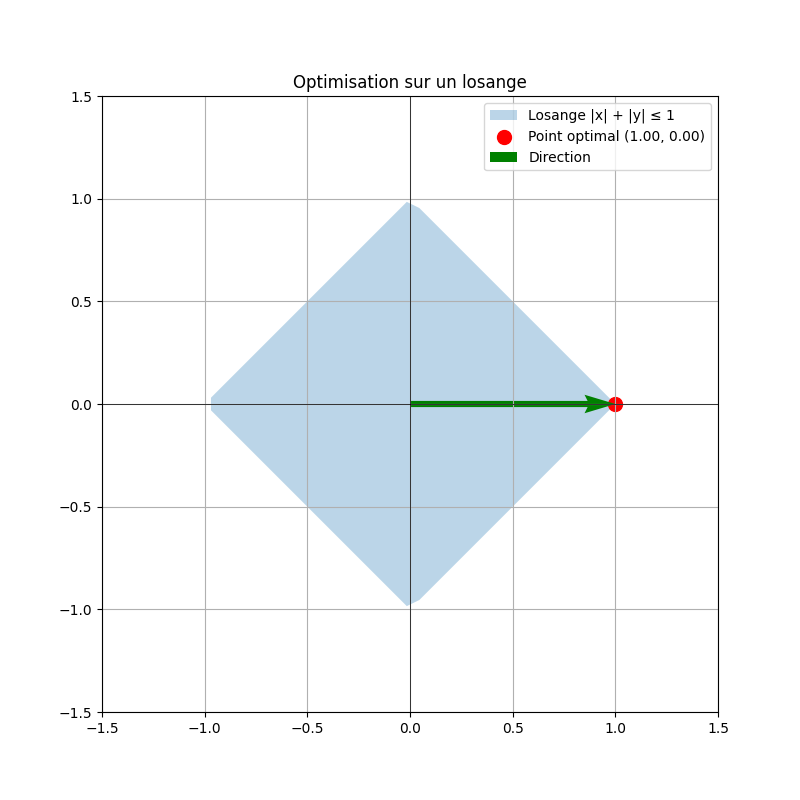
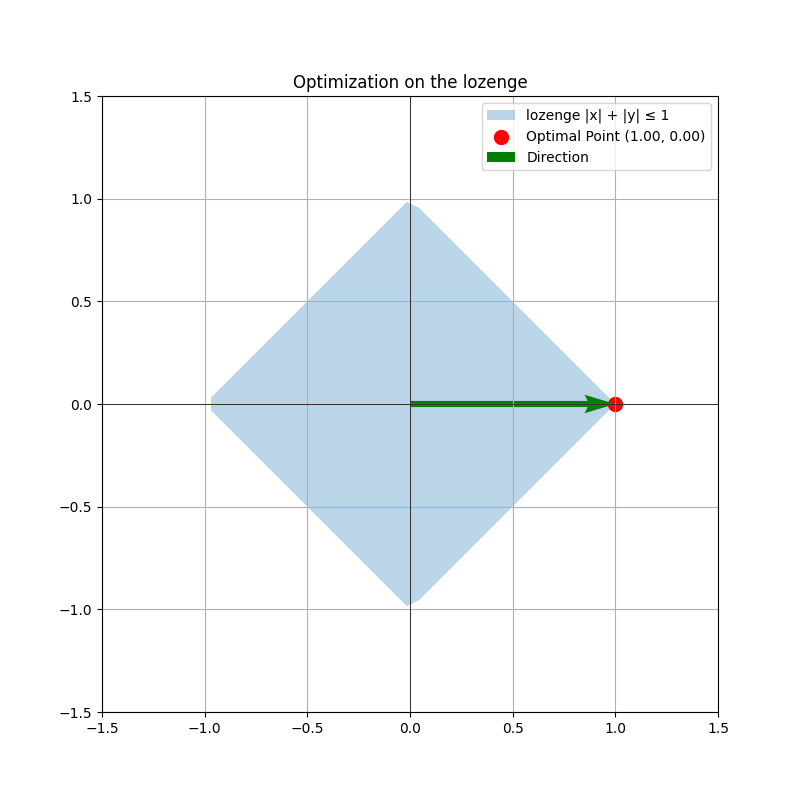
aco hw

Changed region(s): [[0.5, 0.0938, 0.875, 0.2188]]

diff --git a/m4.py b/m4.py
@@ -1,0 +1,116 @@
+import numpy as np
+import matplotlib.pyplot as plt
+from matplotlib.animation import FuncAnimation
+
+GRID_RES = 100
+X_RANGE = (-3, 3)
+Y_RANGE = (-3, 3)
+
+class ConstraintSets:
+    @staticmethod
+    def pentagon(center, size, rotation=0): 
+        angles = np.linspace(0, 2*np.pi, 5, endpoint=False) + rotation
+        return np.array([
+            center[0] + size*np.cos(angles),
+            center[1] + size*np.sin(angles)
+        ])
+
+    @staticmethod
+    def rotating_square(center, size, angle): 
+        return np.array([
+            center[0] + size*np.array([np.cos(angle), -np.sin(angle), -np.cos(angle), np.sin(angle)]),
+            center[1] + size*np.array([np.sin(angle), np.cos(angle), -np.sin(angle), -np.cos(angle)])
+        ])
+
+    @staticmethod
+    def circle(center, radius): 
+        theta = np.linspace(0, 2*np.pi, 100)
+        return np.array([
+            center[0] + radius*np.cos(theta),
+            center[1] + radius*np.sin(theta)
+        ])
+ 
+def linear_cost(x, direction):
+    return np.dot(x, direction)
+
+def quadratic_cost(x, target):
+    return np.linalg.norm(x - target)**2
+ 
+class OptimizationScenario:
+    def __init__(self): 
+        self.x = np.linspace(*X_RANGE, GRID_RES)
+        self.y = np.linspace(*Y_RANGE, GRID_RES)
+        self.X, self.Y = np.meshgrid(self.x, self.y)
+         
+        self.timesteps = 50
+        self.current_step = 0
+         
+        self.constraint_centers = np.array([
+            [0.5*np.cos(2*np.pi*t/self.timesteps), 
+             0.5*np.sin(2*np.pi*t/self.timesteps)] 
+            for t in range(self.timesteps)
+        ])
+         
+        self.target_positions = np.array([
+            [2*np.cos(2*np.pi*t/self.timesteps), 
+             2*np.sin(2*np.pi*t/self.timesteps)] 
+            for t in range(self.timesteps)
+        ])
+
+    def get_constraints(self, t): 
+        return ConstraintSets.pentagon(
+            center=self.constraint_centers[t],
+            size=0.8,
+            rotation=0.1*t
+        )
+
+    def is_feasible(self, x, y, vertices): 
+        from matplotlib.path import Path
+        return Path(vertices.T).contains_point((x, y))
+
+    def find_optimal(self, t): 
+        vertices = self.get_constraints(t)
+        target = self.target_positions[t]
+        
+        min_cost = float('inf')
+        optimal_point = None
+         
+        for i in range(GRID_RES):
+            for j in range(GRID_RES):
+                x, y = self.X[i,j], self.Y[i,j]
+                if self.is_feasible(x, y, vertices):
+                    current_cost = quadratic_cost([x,y], target)
+                    if current_cost < min_cost:
+                        min_cost = current_cost
+                        optimal_point = [x, y]
+        
+        return optimal_point, vertices, target
+
+scenario = OptimizationScenario()
+
+fig, ax = plt.subplots(figsize=(10, 10))
+ax.set_xlim(*X_RANGE)
+ax.set_ylim(*Y_RANGE)
+
+constraint_patch = plt.Polygon([[0,0]], alpha=0.2, color='blue')
+target_point = plt.Circle((0,0), 0.1, color='green')
+optimal_point = plt.Circle((0,0), 0.1, color='red')
+ax.add_patch(constraint_patch)
+ax.add_patch(target_point)
+ax.add_patch(optimal_point)
+
+def update(frame):
+    t = frame % scenario.timesteps
+    point, vertices, target = scenario.find_optimal(t)
+    
+    constraint_patch.set_xy(vertices.T)
+    target_point.center = target
+    optimal_point.center = point
+    
+    ax.set_title(f"Timestep {t+1}/{scenario.timesteps}\n"
+                 f"Target: {target.round(2)} | Optimal: {np.array(point).round(2)}")
+    
+    return constraint_patch, target_point, optimal_point
+
+ani = FuncAnimation(fig, update, frames=scenario.timesteps, interval=200, blit=True)
+plt.show()

diff --git a/m3.py b/m3.py
@@ -1,0 +1,59 @@
+import numpy as np
+import cvxpy as cp
+import matplotlib.pyplot as plt
+from matplotlib.patches import Polygon
+
+T   = 10 # steps
+dx  = 0.4       
+r   = 1.0 # radius of the pentagon
+d   = np.array([1.0, 1.0])
+d   /= np.linalg.norm(d)
+
+angles = np.linspace(0, 2*np.pi, 6)[:-1] + np.pi/2  
+V_rel = np.stack([np.cos(angles), np.sin(angles)], axis=1) * r # shape (5,2)
+
+x      = cp.Variable(2, name="x")
+lam    = cp.Variable(5, nonneg=True, name="lambda")  
+center = cp.Parameter(2, name="center")
+
+constraints = [
+    cp.sum(lam) == 1,
+    x - center == V_rel.T @ lam
+]
+
+obj = cp.Maximize(d @ x)
+
+prob = cp.Problem(obj, constraints)
+
+trajectory = np.zeros((T,2))
+centers    = np.zeros((T,2))
+
+for t in range(T):
+    c = np.array([t*dx, t*dx])
+    center.value = c
+    centers[t]  = c
+
+    opt_val = prob.solve(solver=cp.ECOS, verbose=True)
+
+    stats = prob.solver_stats
+    trajectory[t] = x.value
+
+    print(f"  Status      : {prob.status}")
+    print(f"  Objet value : {opt_val:.6f}")
+
+fig, ax = plt.subplots(figsize=(6,6))
+for c in centers:
+    verts = V_rel + c 
+    poly = Polygon(verts, closed=True, facecolor="C0", edgecolor="k", alpha=0.2)
+    ax.add_patch(poly)
+ 
+ax.plot(trajectory[:,0], trajectory[:,1], 'o-', color="C1", lw=2, label="x*(t)")
+ax.plot(*trajectory[-1], 's', color="C2", markersize=8, label="x*(T-1)")
+
+ax.set_aspect('equal')
+ax.set_xlabel('x[0]')
+ax.set_ylabel('x[1]')
+ax.set_title('Optimization on a moving pentagon')
+ax.legend()
+ax.grid(True)
+plt.show()

diff --git a/m2.py b/m2.py
@@ -1,0 +1,52 @@
+import cvxpy as cp
+import numpy as np
+import matplotlib.pyplot as plt
+
+def find_opti(direction):
+    point = cp.Variable(2)
+    
+    angles = np.linspace(0, 2*np.pi, 5, endpoint=False)
+    x_verts = np.cos(angles)
+    y_verts = np.sin(angles)
+     
+    constraints = []
+    for i in range(5):
+        x1, y1 = x_verts[i], y_verts[i]
+        x2, y2 = x_verts[(i+1)%5], y_verts[(i+1)%5]
+         
+        a = y2 - y1
+        b = x1 - x2
+        c = x1*y2 - x2*y1
+        constraints.append(a*point[0] + b*point[1] <= c)
+     
+    problem = cp.Problem(cp.Maximize(direction @ point), constraints)
+    problem.solve(solver=cp.ECOS)
+     
+    return point.value
+ 
+direction = np.array([1.0, 2.0]) 
+point_opt = find_opti(direction)
+ 
+ 
+fig, ax = plt.subplots(figsize=(8, 8))
+angles = np.linspace(0, 2*np.pi, 5, endpoint=False)
+x_pent = np.cos(angles)
+y_pent = np.sin(angles)
+ax.fill(x_pent, y_pent, alpha=0.3)
+ 
+ax.scatter(*point_opt, c='red', s=100, 
+           label=f'Point optimal ({point_opt[0]:.2f}, {point_opt[1]:.2f})')
+ 
+ax.quiver(0, 0, direction[0], direction[1], 
+          angles='xy', scale_units='xy', scale=1,
+          color='green', width=0.01, label='Direction')
+
+ax.set_title("Optimization on pentagon")
+ax.set_xlim(-1.5, 1.5)
+ax.set_ylim(-1.5, 1.5)
+ax.grid(True)
+ax.axhline(0, color='black', linewidth=0.5)
+ax.axvline(0, color='black', linewidth=0.5)
+ax.set_aspect('equal')
+ax.legend()
+plt.show()

diff --git a/m1.py b/m1.py
@@ -13,14 +13,9 @@ def find_opti(direction):
     
     return point.value
 
-
-# Case 1 : lozenge
-direction = np.array([1.0, 0.0])  # ->
+direction = np.array([1.0, 0.0])  
 point_opt = find_opti(direction)
 
-# ----------------------------------
-# Visualisation
-# ----------------------------------
 fig, ax = plt.subplots(figsize=(8, 8))
 
 
@@ -32,7 +27,6 @@ ax.fill(x, y, alpha=0.3, label="lozenge |x| + |y| ≤ 1")
 ax.scatter(*point_opt, c='red', s=100, 
            label=f'Optimal Point ({point_opt[0]:.2f}, {point_opt[1]:.2f})')
 
-# vector
 ax.quiver(0, 0, direction[0], direction[1], 
           angles='xy', scale_units='xy', scale=1,
           color='green', width=0.01, label='Direction')
